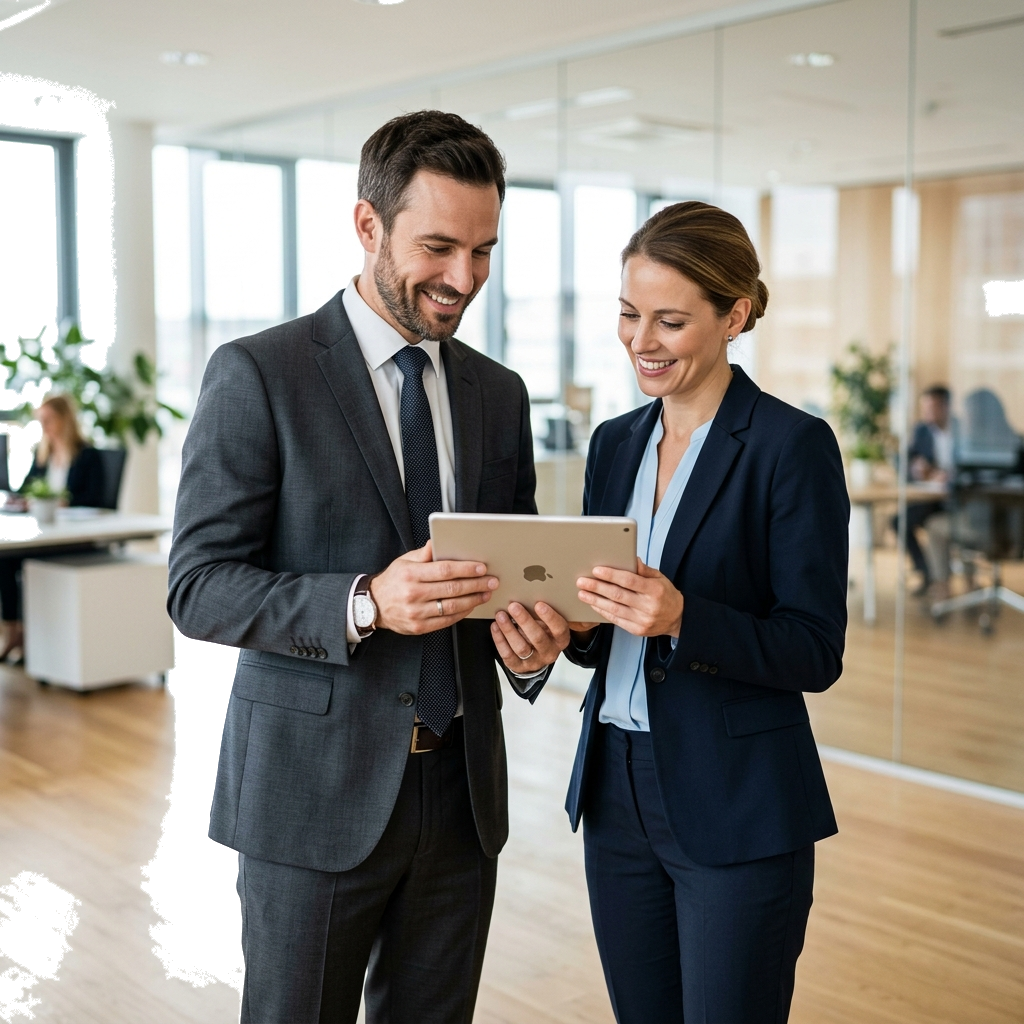
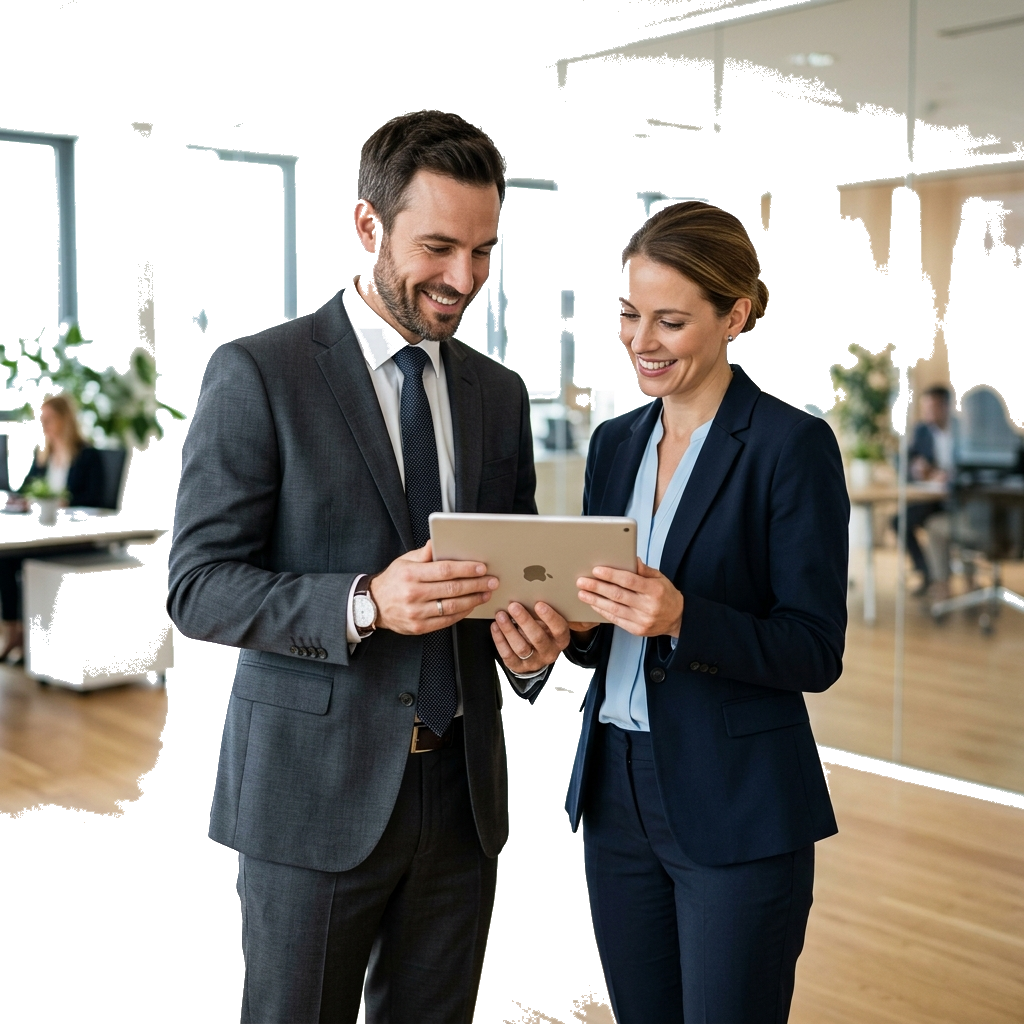
style(login): fully extract couple from office background and increase couple container size

diff --git a/frontend/src/app/login/page.tsx b/frontend/src/app/login/page.tsx
@@ -390,7 +390,7 @@ export default function LoginPage() {
               </div>
 
               {/* Corporate Couple Photo backdrop from user request (replaces h-52 block) */}
-              <div className="flex-1 relative h-[290px] xl:h-[330px] flex items-end justify-center overflow-visible pr-8">
+              <div className="flex-1 relative h-[325px] xl:h-[365px] flex items-end justify-center overflow-visible pr-8">
                 
                 {/* Giant blue logo shape 'P' behind the couple, matching the mockup */}
                 <svg className="absolute top-[48%] left-[45%] -translate-x-1/2 -translate-y-1/2 w-[380px] h-[380px] -z-10 opacity-[0.95] select-none pointer-events-none" viewBox="0 0 200 200" fill="none" xmlns="http://www.w3.org/2000/svg">
@@ -407,7 +407,7 @@ export default function LoginPage() {
                 <img 
                   src="/login_corporate_couple.png" 
                   alt="Parceiros Portabilidade PRO" 
-                  className="h-full w-auto object-contain relative z-10 select-none pointer-events-none drop-shadow-2xl scale-105" 
+                  className="h-full w-auto object-contain relative z-10 select-none pointer-events-none drop-shadow-2xl scale-110" 
                 />
 
                 {/* Floating metrics card 1 (Top right) */}